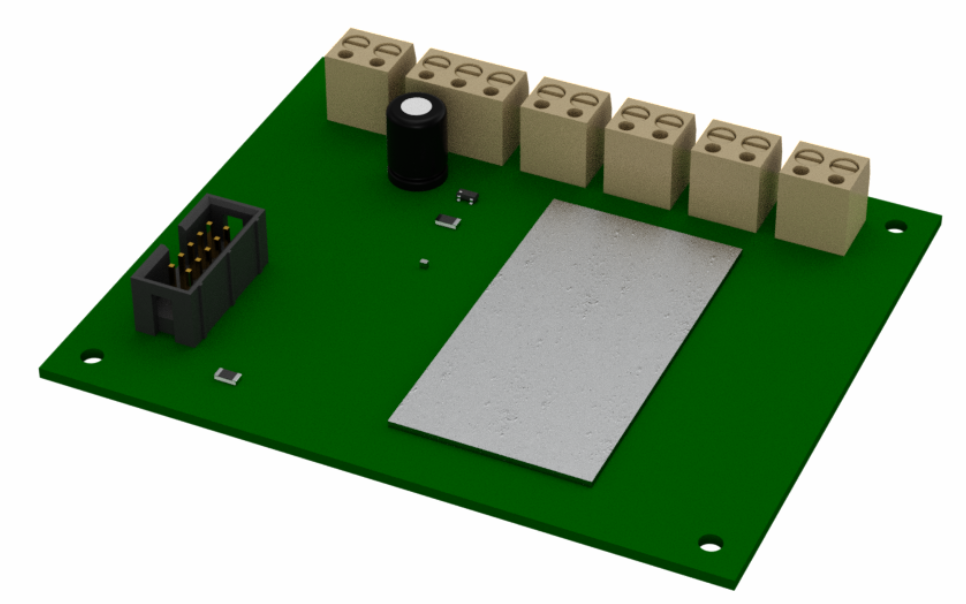
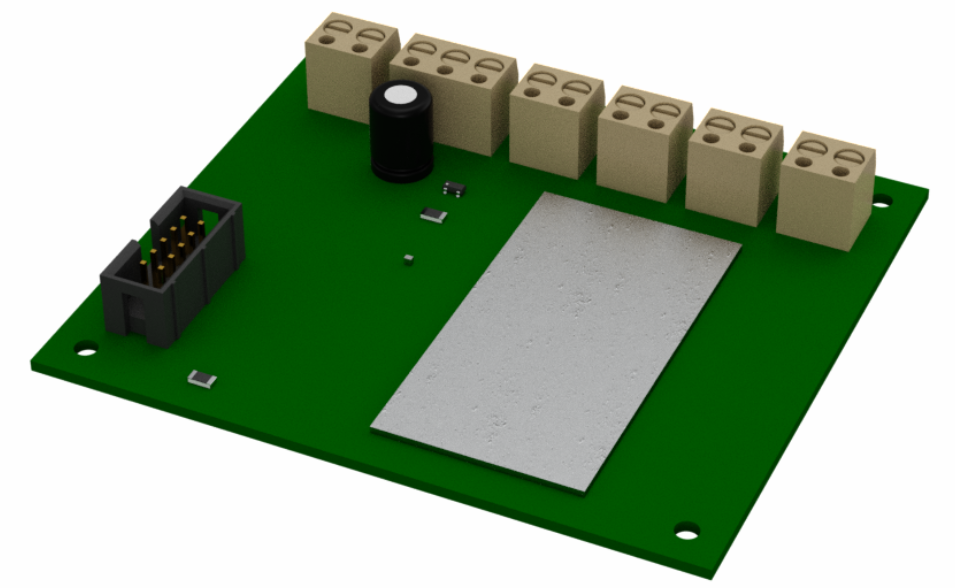
Silkscreen improved and additional descriptions added to top level names. Board shrinked to 90x80mm. #2

diff --git a/doc/ELECTRONIC.md b/doc/ELECTRONIC.md
@@ -25,10 +25,10 @@ Full RGB LED matrix, based on an ESP32 and WS2812B LEDs.
 | D25 | J1-8 | GPIO 25 (A8) | - | - |
 | D33 | J1-9 | GPIO 33 (A5) | - | 32.768 kHz crystal (32K_XN) |
 | D32 | J1-10 | GPIO 32 (A4) | - | 32.768 kHz crystal (32K_XP) |
-| D35 | J1-11 | GPIO 35 (A7) | Input only! | - |
-| D34 | J1-12 | GPIO 34 (A6) | Input only! | - |
-| VN | J1-13 | GPIO 39 (VN) | Input only! | - |
-| VP | J1-14 | GPIO 36 (VP) | Input only! | - |
+| D35 | J1-11 | GPIO 35 (A7) | Input only! See ESP32 tech. reference manual, chapter 4.1 | - |
+| D34 | J1-12 | GPIO 34 (A6) | Input only! See ESP32 tech. reference manual, chapter 4.1 | - |
+| VN | J1-13 | GPIO 39 (VN) | Input only! See ESP32 tech. reference manual, chapter 4.1 | - |
+| VP | J1-14 | GPIO 36 (VP) | Input only! See ESP32 tech. reference manual, chapter 4.1 | - |
 | EN | J1-15 | EN | 10k Pull-Up; Button on ESP32 DevKit V1, closing to GND | USB RTS |
 | VDD3V3 | J2-1 | VDD3V3 | 3.3 V output | 3.3 V output |
 | GND | J2-2 | GND | Ground | Ground |
@@ -49,20 +49,37 @@ Full RGB LED matrix, based on an ESP32 and WS2812B LEDs.
 
 #### Strapping Pins
 
-The following table shows the strapping bit status on the ESP32 DevKitV1 board.
+The following table shows the strapping bit status on the ESP32 DevKitV1 board. See also ESP32 series datasheet chapter 2.4
 
-| Strapping pin | Level | Function |
-| --- | --- | --- |
+| Pin | Default | Function 1 | Function 2 |
+| --- | --- | --- | --- | --- | --- |
 | Voltage of internal LDO (VDD_SDIO) |
-| GPIO 12 (MTDI) | Low | 3.3 V |
+| Pin | Default | 3.3 V | 1.8 V |
+| GPIO 12 (MTDI) | Low | Low | High |
+Result: 3.3 V
+
+| Pin | Default | Function 1 | Function 2 |
+| --- | --- | --- | --- | --- | --- |
 | Booting mode |
-| GPIO 0 | High | SPI boot |
-| GPIO 2 | Low | Don't care |
+| Pin | Default | SPI Boot | Download Boot |
+| GPIO 0 | High | High | Low |
+| GPIO 2 | Low | Don't care | 0 |
+Result: SPI Boot
+
+| Pin | Default | Function 1 | Function 2 |
+| --- | --- | --- | --- | --- | --- |
 | Enabling/Disabling debugging log print over U0TXD during booting |
-| GPIO 15 (MTDO) | High | U0TXD toggling |
+| Pin | Default | U0TXD Toggling | U0TXD Silent |
+| GPIO 15 (MTDO) | High | High | Low |
+Result: U0TXD Toggling
+
+| Pin | Default | Function 1 | Function 2 | Function 3 | Function 4 |
+| --- | --- | --- | --- | --- | --- | --- | --- |
 | Timing of SDIO slave |
-| GPIO 15 (MTDO) | High | Rising edge sampling |
-| GPIO 5 | High | Rising edge output |
+| Pin | Default | Falling-edge Sampling | Falling-edge Sampling | Rising-edge Sampling | Rising-edge Sampling |
+| GPIO 15 (MTDO) | High | Low | Low | High | High |
+| GPIO 5 | High | Low | High | Low | High |
+Result: Rising-edge Sampling
 
 #### Input Only Pins
 GPIOs 34 to 39 are input only pins. These pins don’t have internal pull-ups or pull-down resistors. They can’t be used as outputs, so use these pins only as inputs.
